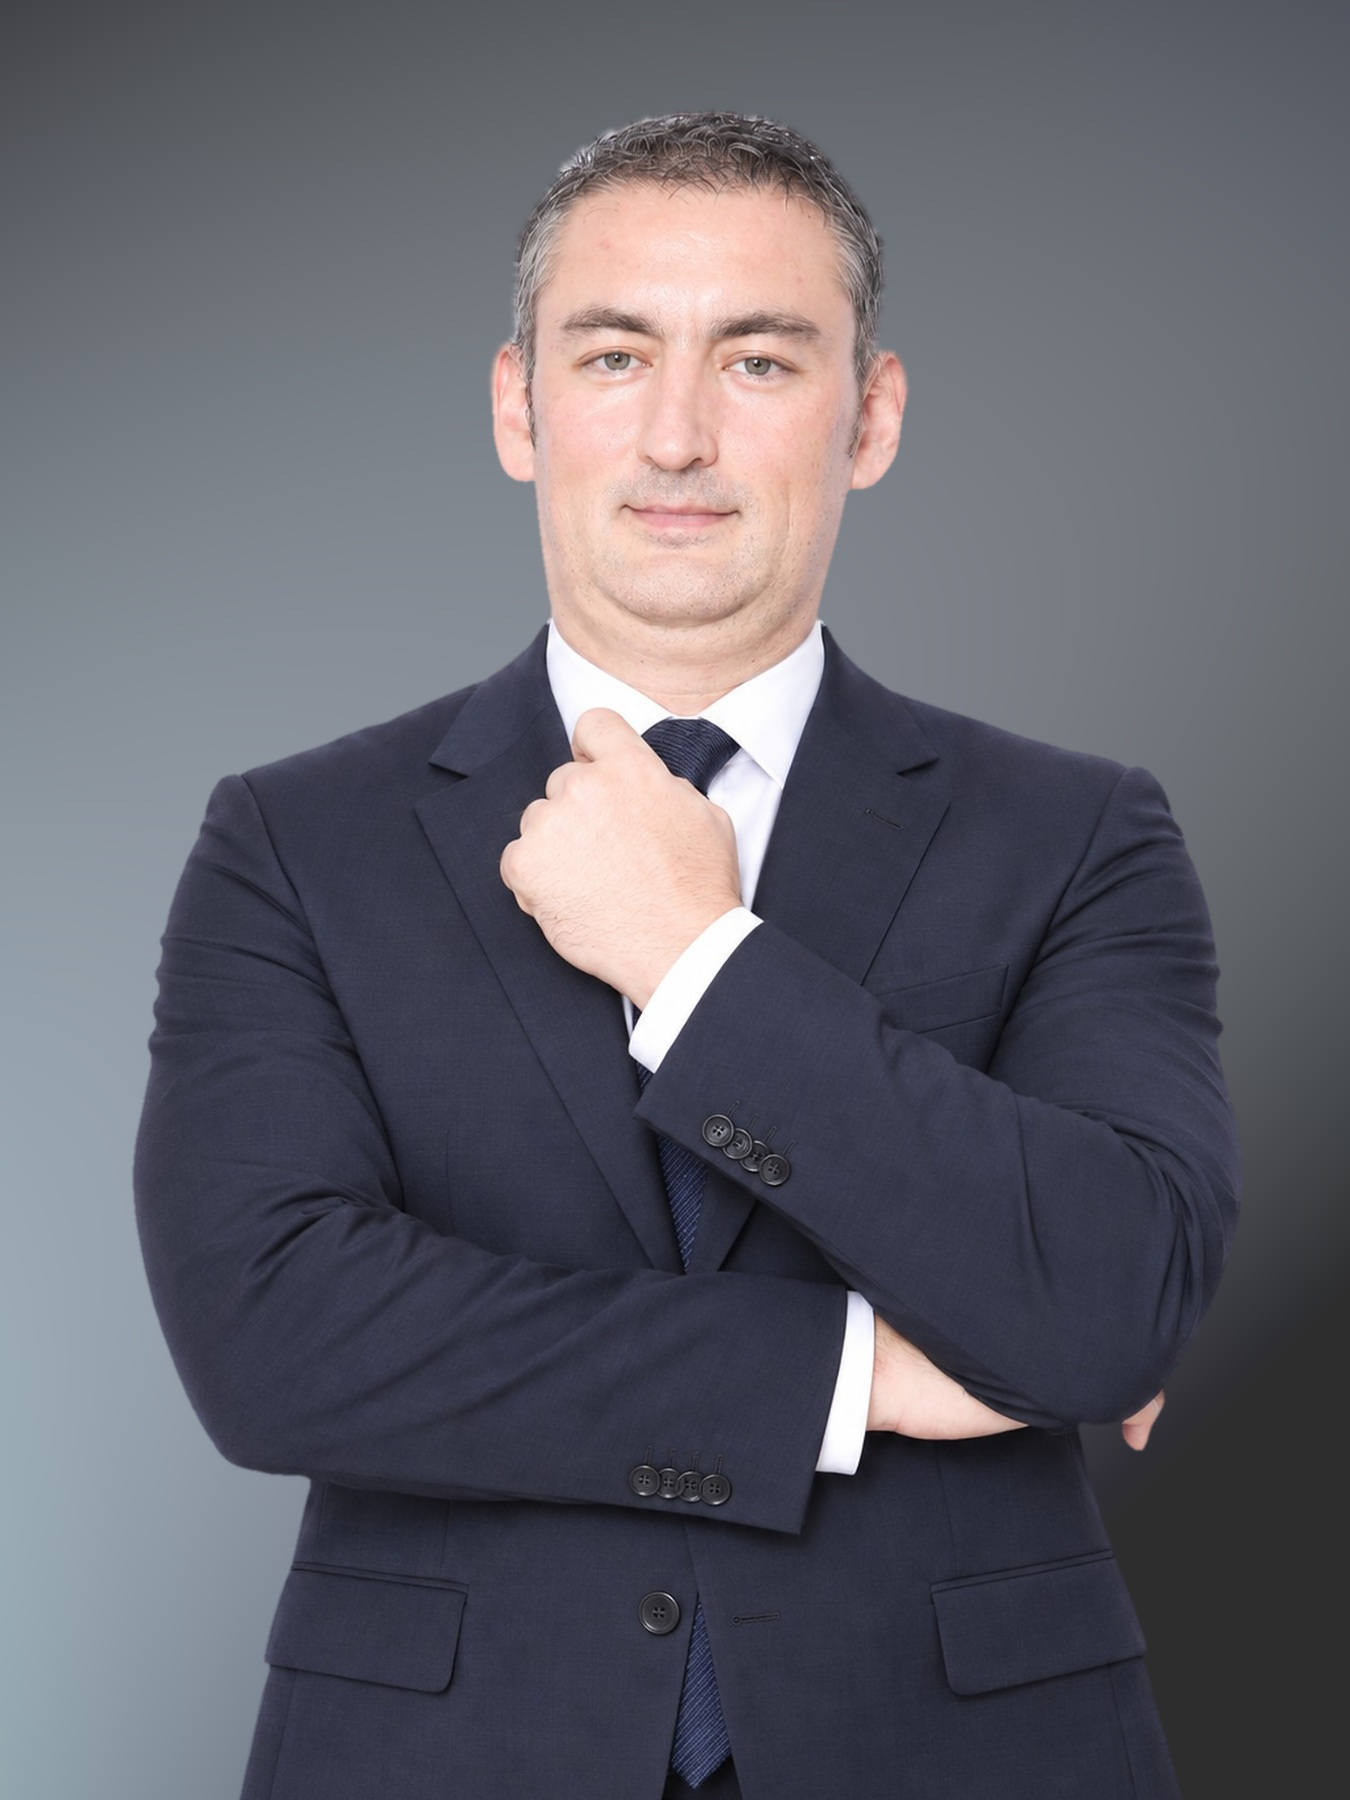
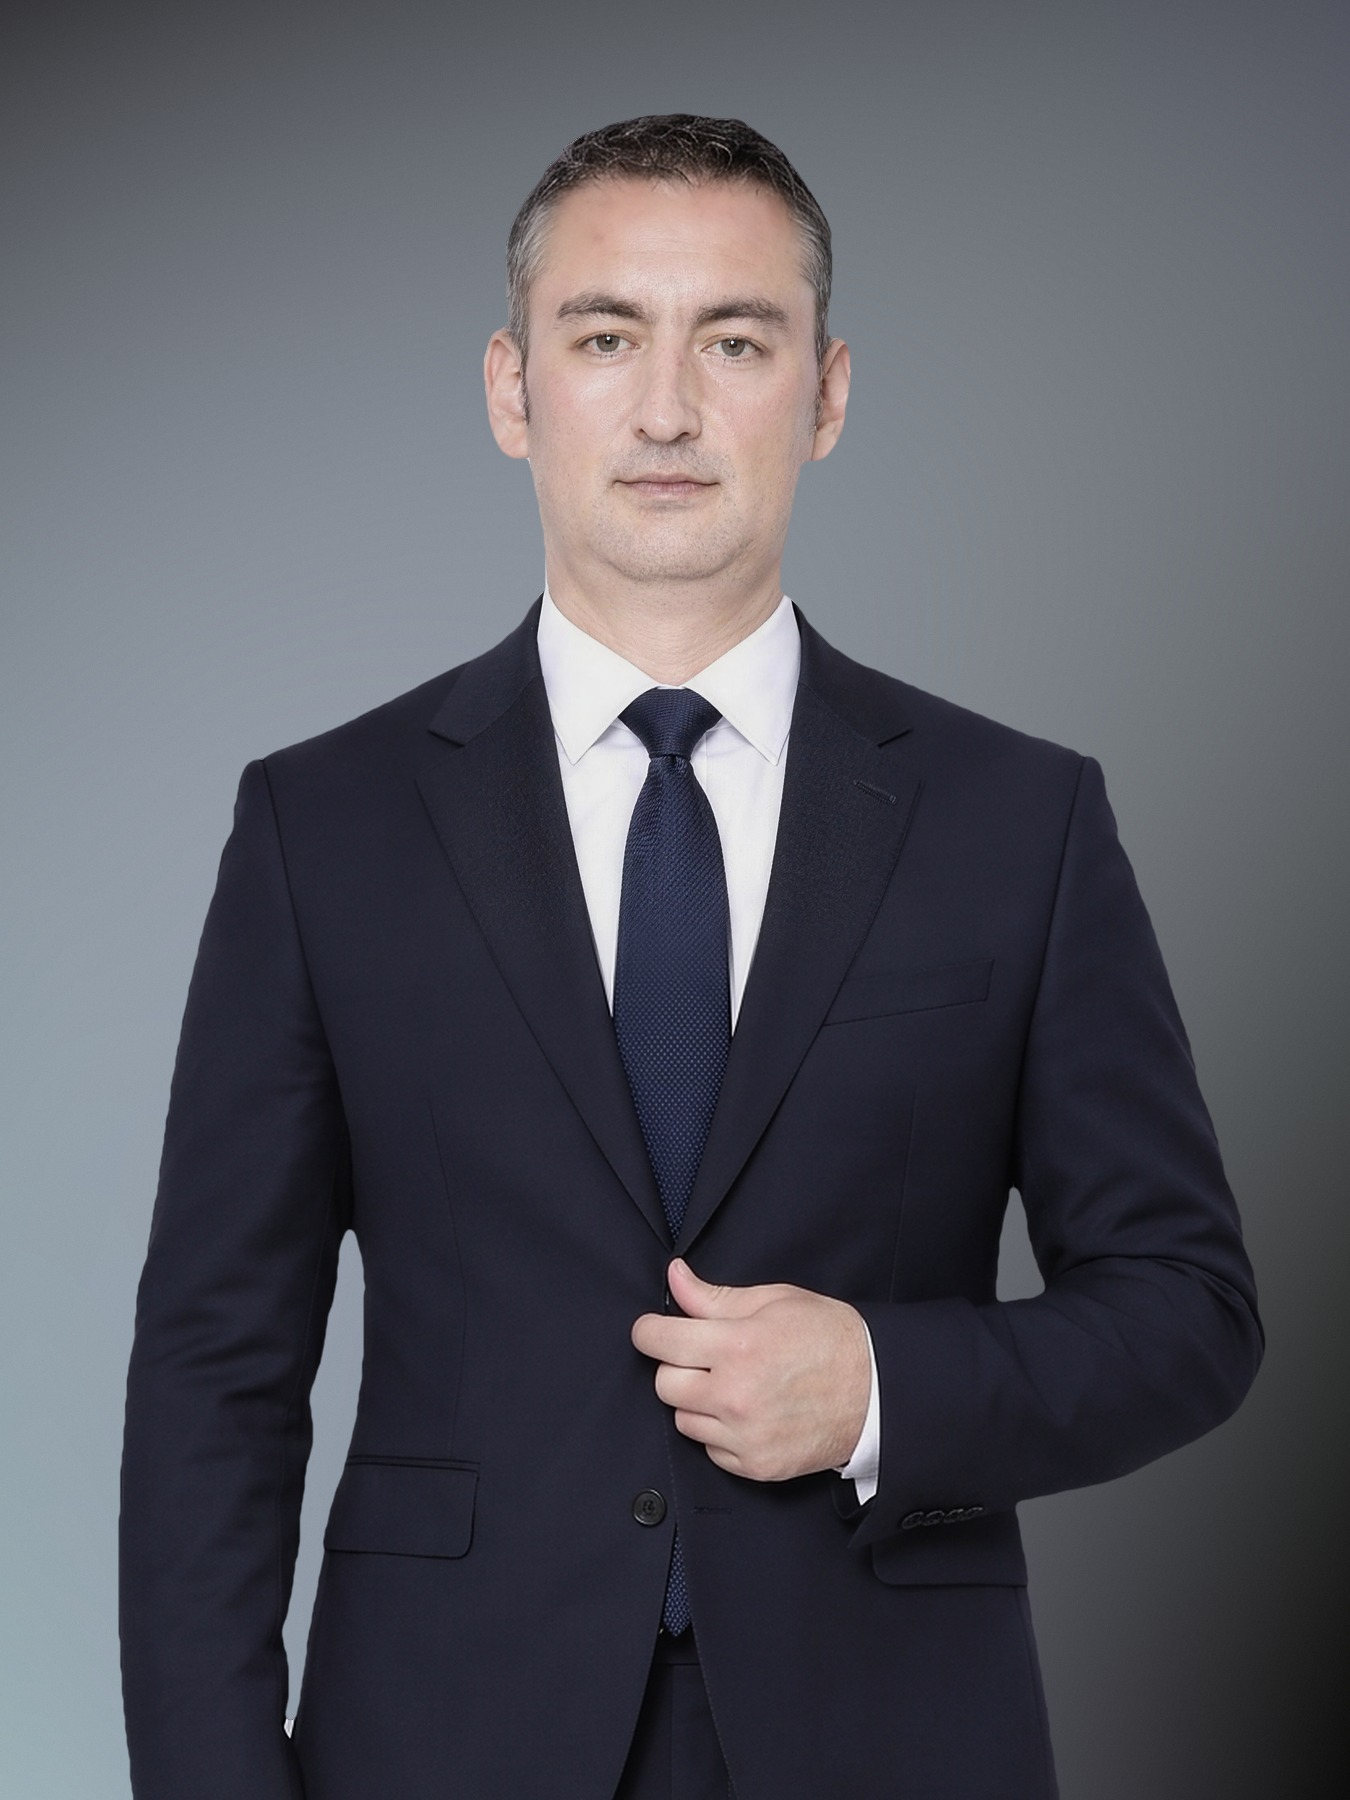
Leadership: Peter Kovac CEO first, Fabian Vossberg CEO-Designate (Jan 2027) + new Fabian portrait
- en.ts + 13 locales: subtitle, roles, scope, quotes, bios
- About.tsx: render Peter first (data order unchanged)
- public/img/about-fabian-vossberg.jpg: new portrait, same name/size
- UPDATE-2026-11-12-Leadership.md

diff --git a/website/src/content/en.ts b/website/src/content/en.ts
@@ -697,36 +697,36 @@ export const ABOUT_PAGE = {
   },
   leadership: {
     heading: "Meet Our Leadership",
-    sub: "Two specialists, one company — corporate and international leadership under our Chief Executive Officer, technology under our Chief Technology Officer.",
+    sub: "A planned leadership transition — Peter Kovac leads Naslab as Chief Executive Officer, with Fabian Vossberg appointed Chief Executive Officer-Designate, taking office in January 2027.",
     people: [
       {
         name: "Fabian Vossberg",
-        role: "Chief Executive Officer",
-        scope: "Corporate, legal and international operations",
+        role: "Chief Executive Officer-Designate",
+        scope: "Takes office January 2027 · Corporate, legal and international operations",
         img: "/img/about-fabian-vossberg.jpg",
         video: undefined,
         videoPoster: undefined,
         quote:
-          "\"Naslab has been built on real technology, and that remains its greatest asset. My responsibility is the structure around it — the legal preparation, the regional strategy, and the operating discipline a company needs in order to work credibly in many markets at once. The vision is set, and the ambition is larger than anything we have built so far.\"",
+          "\"Naslab has been built on real technology, and that remains its greatest asset. My responsibility will be the structure around it — the legal preparation, the regional strategy, and the operating discipline a company needs in order to work credibly in many markets at once. The vision is set, and the ambition is larger than anything we have built so far.\"",
         bio: [
-          "Fabian Vossberg was appointed Chief Executive Officer of Naslab in 2026, taking responsibility for corporate management, international operations, and global market expansion. For fifteen years he has taken companies past the point where one market is enough — across Europe and Southeast Asia. That is exactly where Naslab stands today.",
-          "Most companies reach this stage with unproven technology. At Naslab the technology already works, and that is the hardest part. The remaining work is the structure around it — legal and regulatory preparation, regional strategy, and the discipline to operate credibly in many markets at once. That is the responsibility Vossberg carries as Chief Executive Officer.",
-          "Three priorities define the current stage: strengthening Naslab's foundation in Asia, where Ncore 3.0 is now in official operation; preparing the company's framework for the Middle East and Europe; and giving partners and users clearer, more consistent support. Vossberg leads Naslab's corporate and international side alongside Peter Kovac, who leads technology.",
+          "Fabian Vossberg has been appointed Chief Executive Officer-Designate of Naslab and will formally take office in January 2027, assuming responsibility for corporate management, international operations, and global market expansion. For fifteen years he has taken companies past the point where one market is enough — across Europe and Southeast Asia. That is exactly where Naslab stands today.",
+          "Most companies reach this stage with unproven technology. At Naslab the technology already works, and that is the hardest part. The remaining work is the structure around it — legal and regulatory preparation, regional strategy, and the discipline to operate credibly in many markets at once. That is the responsibility Vossberg will carry as Chief Executive Officer.",
+          "Three priorities will define his first stage: strengthening Naslab's foundation in Asia, where Ncore 3.0 is now in official operation; preparing the company's framework for the Middle East and Europe; and giving partners and users clearer, more consistent support. Until he takes office, Vossberg is working alongside Chief Executive Officer Peter Kovac to ensure a smooth transition.",
         ],
       },
       {
         name: "Peter Kovac",
-        role: "Chief Technology Officer",
-        scope: "Technology, product architecture and system innovation",
+        role: "Chief Executive Officer",
+        scope: "Company leadership, technology and product architecture",
         img: "/img/about-peter-kovac.jpg",
         video: "/video/about-peter-kovac.mp4",
         videoPoster: "/video/about-peter-kovac-poster.jpg",
         quote:
-          "\"Technology built the foundation of Naslab. Professional global management will help take that foundation much further. I brought in Fabian to lead the company, and turned my own focus to the part where I contribute most.\"",
+          "\"Technology built the foundation of Naslab. Professional global management will help take that foundation much further. That is why I appointed Fabian to lead the company into its next stage — and after the handover, I will turn my own focus to the part where I contribute most.\"",
         bio: [
           "Peter Kovac leads the technology behind Naslab. His work started with the part most companies find hardest — the technology itself: blockchain trading systems, system architecture, and product innovation. Everything Naslab brings to market today grew out of that engineering foundation.",
-          "In 2026 Kovac moved into a dedicated technology leadership role as Chief Technology Officer, concentrating on technology development, product architecture, and system innovation across the company's trading infrastructure. He brought in Fabian Vossberg to lead the company and turned his own focus to the technology, where his contribution is greatest.",
-          "Kovac now leads the technology that defines the company — the execution logic, market structure assessment, on-chain data interpretation and risk-aware filtering behind Ncore 3.0, now in official operation, and the next development direction represented by Ncore X. Technology with Kovac, corporate leadership with Fabian Vossberg. Two specialists, one company.",
+          "As Chief Executive Officer, Kovac is leading the company into its next stage. In 2026 he appointed Fabian Vossberg as Chief Executive Officer-Designate to lead Naslab's corporate and international expansion; after the handover in January 2027, Kovac will concentrate on technology development, product architecture, and system innovation — where his contribution is greatest.",
+          "Kovac now leads the technology that defines the company — the execution logic, market structure assessment, on-chain data interpretation and risk-aware filtering behind Ncore 3.0, now in official operation, and the next development direction represented by Ncore X. A planned transition, one company: technology with Kovac, corporate leadership with Fabian Vossberg.",
         ],
       },
     ],

diff --git a/website/src/pages/About.tsx b/website/src/pages/About.tsx
@@ -79,7 +79,8 @@ export default function About() {
         <h2 className="xsec__h">{a.leadership.heading}</h2>
         <p className="xsec__p">{a.leadership.sub}</p>
         <div className="leaders">
-          {a.leadership.people.map((person) => (
+          {/* 2026-11-12: Peter (CEO) 在前、Fabian (CEO-Designate) 在后;数据顺序不动以免 14 语种错位 */}
+          {[...a.leadership.people].reverse().map((person) => (
             <article className="leader" key={person.name}>
               <ImageSlot
                 label={`${person.name} — ${person.role}`}

diff --git a/UPDATE-2026-11-12-Leadership.md b/UPDATE-2026-11-12-Leadership.md
@@ -1,0 +1,57 @@
+# NASLAB 官网 · 领导层职称调整 + Fabian 人像更换（2026-11-12）
+
+> 📌 **主要看这张图**：Release `v2026.11.12` 的附件 **`naslab-leadership-titles-20261112@3x.png`**
+> —— 改了哪 6 个地方、没动哪些、怎么部署、怎么验收，全在那一张图里。本文只是同内容的文字版。
+> **对照基准 = 上一版 `v2026.11.10`。**
+
+## 一句话
+
+About 页领导层区块：**Peter Kovac = Chief Executive Officer（排第一）**，**Fabian Vossberg = Chief Executive Officer-Designate（2027 年 1 月上任，排第二）**；文案 14 语种同步，Fabian 换新人像。
+
+**其余页面、路由、部署配置、样式（CSS）、72 支影片 —— 一个都没动。**
+
+---
+
+## 部署：两种选一种
+
+### A. 整包覆盖（建议，跟上次同样流程）
+
+到 Releases 下载 `v2026.11.12` 的 `naslab-website.zip`，解压覆盖站点根目录 → 完成。
+SPA 回落配置沿用原来的，不用动（见 `IT部署说明.md`）。
+
+### B. 增量覆盖（赶时间用）
+
+| 动作 | 路径 |
+|---|---|
+| 覆盖 | `index.html` |
+| 新增 | `assets/index-C4CPUaad.js` |
+| 覆盖 | `img/about-fabian-vossberg.jpg` |
+
+CSS（`assets/index-B2I7D4nm.css`）**不变**。旧的 `assets/index-CWuziCMy.js` 可删（不删也不会出错）。
+
+⚠ `index.html` 必须一起换 —— 它指向新的 JS 档名，不换会继续载入旧版。
+⚠ 人像图是**同名覆盖**：若部署后 Fabian 仍显示旧照，清一次 CDN／浏览器缓存。
+
+---
+
+## 上线后 30 秒验收
+
+1. 打开 **`/about`** → 左 **Peter Kovac「Chief Executive Officer」**、右 **Fabian Vossberg「Chief Executive Officer-Designate」**；Fabian 是新人像（扣西装扣）
+2. 缩到手机宽度 → 单栏，**Peter 在上**
+3. **`/zh/about`** → 首席执行官 / 候任首席执行官
+4. **`/ar/about`** → 右至左镜像
+
+---
+
+## 本次改动源档
+
+| 档案 | 改了什么 |
+|---|---|
+| `website/src/content/en.ts` | 领导层副标题、两人职称／职能行／引言／简介 |
+| `website/src/content/locales/*.json` | 13 个语种同一区块（ar de es fa hi id it ja ko th tr vi zh） |
+| `website/src/pages/About.tsx` | 只改渲染顺序（Peter 在前），数据结构不动 |
+| `website/public/img/about-fabian-vossberg.jpg` | 新人像，同名同规格 1350×1800 |
+
+## 验收数据（交付前已跑）
+
+`tsc -b` + `vite build` 零报错 ｜ en / zh / ar 顺序抽验：Peter 第一 ｜ 手机 375（德文最长）无横向溢出 ｜ 全站「Chief Technology Officer／首席技术官」0 处 ｜ zip 档案清单与 v2026.11.10 相同，仅 JS hash 不同
